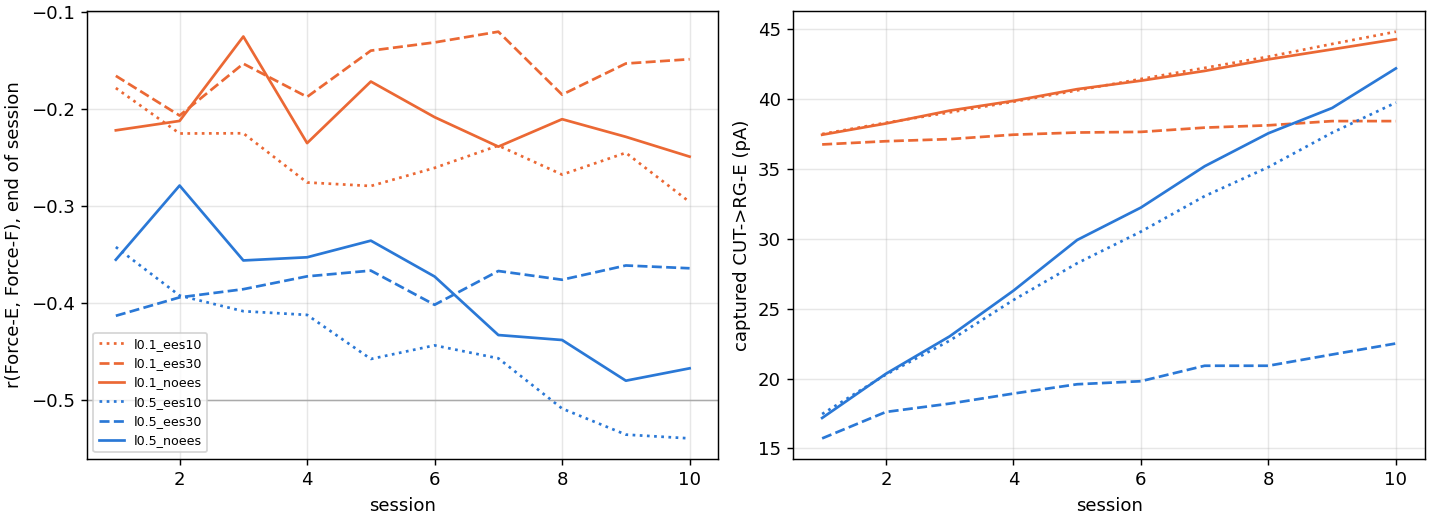
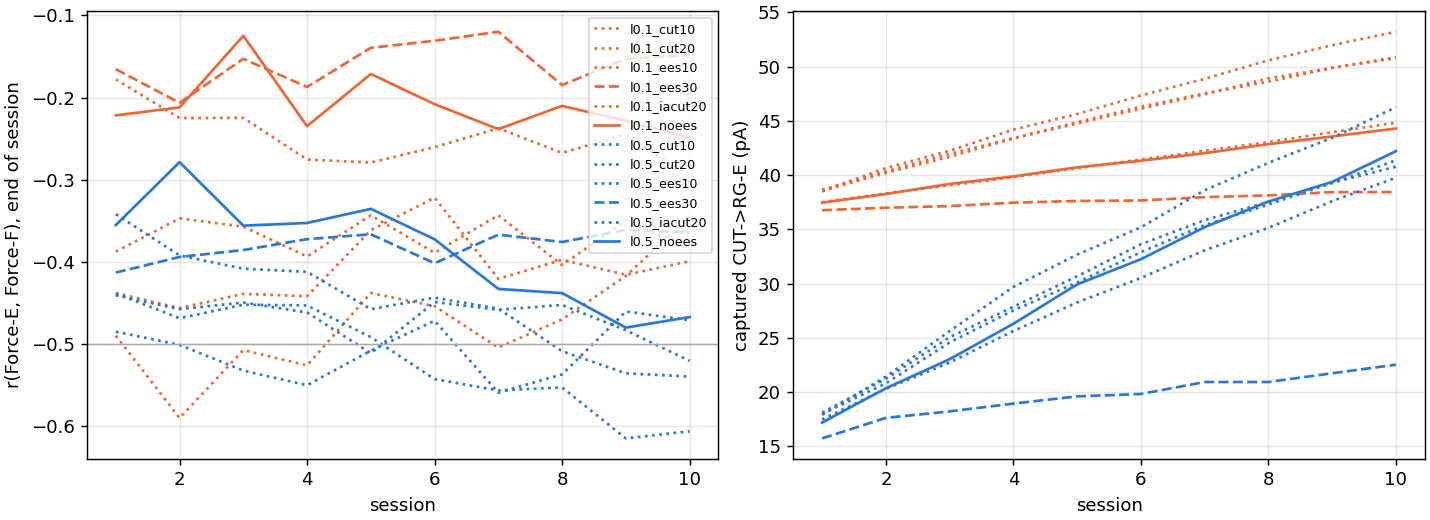
P7b: EES tuning - cutaneous-like recruitment at 10 Hz is the effective setting
Ia/Ib pulses do nothing useful; 30-40 Hz lowers extensor force. 10 Hz CUT-like: BWS 50 chain reaches
r(E,F) -0.5 at session 6, BWS 90 CUT weight grows ~2x faster. Extensor force 8-9 vs 10.7 (caveat).

diff --git a/scripts/p7_ees_tune.py b/scripts/p7_ees_tune.py
@@ -1,0 +1,49 @@
+#!/usr/bin/env python3
+"""
+p7_ees_tune.py
+PLAN.md P7b: one row per single-session run of an EES tuning scan (injured start, 60 s): does the
+stimulation help the extensor and the training signal? Columns (last --last-ms of the run):
+  Ia/Ib/CUT  recruited fraction per pulse; hz   pulse rate (from the HDF5 attrs)
+  rEF        r(Force-E, Force-F), mean of the legs      FE   95th percentile of Force-E (a.u.)
+  act_e      mean extensor activation                   CUTb captured CUT->RG-E baseline at the end (pA)
+  dCUT       CUTb minus the session-start weight (pA)   the in-session gain: the learning signal
+  d_*        difference to the no-EES run of the same mode in the same scan (rows named noees*)
+Usage: python3 scripts/p7_ees_tune.py results/human_modes/p7/ees_tune/<stage>/*/bws50.h5
+"""
+import argparse, os
+import h5py
+import numpy as np
+
+ap = argparse.ArgumentParser()
+ap.add_argument("files", nargs="+")
+ap.add_argument("--last-ms", type=float, default=20000.0)
+a = ap.parse_args()
+
+
+def row(path):
+    with h5py.File(path, "r") as f:
+        at = dict(f.attrs)
+        t = f["times_ms"][()]
+        k = t > t[-1] - a.last_ms
+        r, fe, ae = [], [], []
+        for s in "LR":
+            e, fl = f[f"leg_{s}/force_e"][()][k], f[f"leg_{s}/force_f"][()][k]
+            r.append(np.corrcoef(e, fl)[0, 1])
+            fe.append(np.percentile(e, 95))
+            ae.append(f[f"leg_{s}/act_e"][()][k].mean())
+        cutb = np.mean([f[f"leg_{s}/full_weights/cut_to_rge/baseline"][()].mean() for s in "LR"])
+        w0 = np.mean([f[f"leg_{s}/full_weights/cut_to_rge/w"][()][0].mean() for s in "LR"])
+    return dict(name=os.path.basename(os.path.dirname(path)), mode=os.path.basename(path)[:-3],
+                hz=at.get("ees_hz", 0.0), ia=at.get("ees_amp", 0.0) if at.get("ees_hz", 0) else 0.0,
+                ib=at.get("ees_amp_ib", 0.0), cut=at.get("ees_amp_cut", 0.0),
+                rEF=float(np.nanmean(r)), FE=float(np.mean(fe)), act_e=float(np.mean(ae)), CUTb=float(cutb), dCUT=float(cutb - w0))
+
+
+rows = [row(p) for p in a.files]
+ref = {r["mode"]: r for r in rows if r["hz"] == 0}
+print(f"{'run':24s} {'mode':6s} {'hz':>4s} {'Ia':>4s} {'Ib':>4s} {'CUT':>4s} {'rEF':>6s} {'FE':>5s} {'act_e':>6s} {'CUTb':>6s} {'dCUT':>6s} | {'d_rEF':>6s} {'d_FE':>5s} {'d_dCUT':>6s}")
+for r in sorted(rows, key=lambda r: (r["mode"], r["hz"], r["name"])):
+    b = ref.get(r["mode"])
+    d = (r["rEF"] - b["rEF"], r["FE"] - b["FE"], r["dCUT"] - b["dCUT"]) if b else (np.nan,) * 3
+    print(f"{r['name']:24s} {r['mode']:6s} {r['hz']:4.0f} {r['ia']:4.2f} {r['ib']:4.2f} {r['cut']:4.2f} {r['rEF']:6.2f} {r['FE']:5.1f} {r['act_e']:6.2f} "
+          f"{r['CUTb']:6.1f} {r['dCUT']:6.1f} | {d[0]:6.2f} {d[1]:5.1f} {d[2]:6.1f}")

diff --git a/CLAUDE.md b/CLAUDE.md
@@ -2102,7 +2102,7 @@ Cross-leg: L↔R commissural inhibition on RG-F (strong) and RG-E (weak).
 | `MOD_INIT_WEIGHTS` | **2026-09-28 (PLAN.md P5, groundwork for P6 sessions).** `--init-weights-from H5`: every plastic pathway starts from the end-of-run weights (last `full_weights` snapshot) of an earlier run instead of the naive lognormal init, i.e. a trained walker. The earlier run must be the same network (species, size, wiring rule, seed, threads); the saved (source, target) arrays are checked synapse by synapse and a mismatch is refused. Weights above this run's Wmax are clipped (count logged). Consolidation baselines start at the loaded weights. `config/modes/human.yaml` `init_from: <mode>` (BWS 50/90% from comfortable); `run_human_modes.sh` passes `$OUTDIR/<mode>.h5` unless `TRAINED=0`. **Injured start (round 12, 2026-09-29):** `--init-weights-scale s` multiplies the loaded weights (pathways weakened after SCI; mode key `init_scale`). From the full trained weights the gated extensor is saturated from the first step and nothing changes over the run; near the gate threshold training rebuilds the weights visibly. Human: BWS 50% ×0.25, BWS 90% ×0.65 (the gate needs a larger CUT weight at 10 Hz CUT). Attrs `init_weights_from`, `init_weights_json`, `init_weights_scale` (absent = naive). |
 | `MOD_SESSIONS` | **2026-09-29 (PLAN.md P6).** Session chains. Each `--consolidate` run saves every plastic synapse's final captured baseline (`full_weights/<key>/baseline`) and each leg's final PRP pool (`consolidation` attrs `<key>_prp_pool_final`). `--init-weights-from H5 --init-weights-state baseline` starts the next session from those baselines and pools: the uncaptured tag has decayed during the rest. `--init-weights-state weight` (default) loads the final live weights, as in P5. Attr `init_weights_state`. **Human species default since P6:** force trigger + consolidation at the comfortable P5 timing (`cli_defaults`); timer runs pass `--cut-trigger timer --no-consolidate --no-muscle-fatigue` (`--paced-gait`/`--muscle-fatigue` are switchable now; rat defaults unchanged). |
 | `MOD_SPINAL_INDUCTION` | **2026-10-02 (PLAN.md P6), human default.** `--plasticity-rule {stdp,spinal}` (rat `stdp`, byte-identical; human `spinal`). The human model has **no STDP**: its plastic pathways (CUT→RG-E, Ia→RG-E/F, BS→RG when not frozen) are static synapses in NEST whose weights Python sets every chunk with a spinal E-LTP induction rule (spec §1.1): Δw = η · Wmax · Δt · x · y(y − θ)/θ, x = presynaptic, y = postsynaptic per-neuron rate over the chunk (/100 Hz; the 50 ms chunk ~ the NMDA integration window), soft bounds (LTP × (1 − w/Wmax), LTD × w/Wmax). Weak postsynaptic activity depresses and strong activity potentiates (calcium-control / NMDA coincidence); θ slides per neuron toward ⟨y²⟩/y0 with τ 5 s (BCM homeostatic metaplasticity), so learning settles without a timing rule. y0 per population (`--spinal-post-target-e/f` 3.8 / 0.9) is calibrated so a naive comfortable walk trains to the old trained state (CUT→RG-E ~57 pA, stance RG-E ~650 Hz, r(E,F) −0.74). `--spinal-eta` 0.003/s (session-chain speed; healthy sources use 0.05 to converge in 120 s), `--spinal-theta-tau-ms` 5000. The induced change is the tag; `MOD_CONSOLIDATE` captures it (the tag decay is applied in the same step, on a Python weight shadow `w_sh`, one NEST write per chunk). `--stdp-lambda` is ignored. Attrs `plasticity_rule`, `spinal_induction_json` (absent = stdp). |
-| `MOD_EES` | **2026-10-05 (PLAN.md P7, first step, debug-small only).** `--ees-hz` (0 = off, no NEST objects, byte-identical; `./regress.sh` ALL PASS) and `--ees-amp` (0–1): a regular tonic pulse train (one `spike_generator` per leg, same pulse times in both legs) onto the Ia-E and Ia-F parrot populations, not gait-phase gated. Each pulse makes a fixed random fraction `amp` of each Ia population fire once (pairwise Bernoulli, delay 1 ms). The pulses act through the existing Ia pathways (Ia→InE/InF, Ia→RG), so they also feed the plasticity rule. Logs `ia_meas_e/f` (measured Ia unit rate incl. pulses; checked: +ees_hz·amp Hz) and attrs `ees_hz`, `ees_amp` (absent = off). `--ees-amp-ib` / `--ees-amp-cut` (default 0 = Ia only) add Ib (needs `--afferent-model split`, human default) and CUT-like recruitment from the same pulses. Built after the whole network (same random wiring and node ids with and without EES, so session chains can load an earlier run). Separate from the external Ia-E heel→toe ramp. **Training chains (PLAN.md P7): 30 Hz EES halves extensor force and stalls recovery; 10 Hz is neutral.** **Finding, Ia only (30 s, debug-small, naive weights, `--bs-drive-scale 0`, no loading, no external ramps):** EES alone never activates the extensor (act_e 0.00 at 0–50 Hz, amp 0.5/1.0) because the RG-E load gate (`MOD_RGE_LOAD_GATE`) needs ground contact; the flexor rises with frequency and goes tonic at 40–50 Hz (act_f 0.9–1.2, stride pinned at the 2 s cap). So the 7c pattern (5–15 Hz tonic extension, 25–50 Hz rhythmic E/F) is not reproduced yet: EES must also reach the gate (Ib / cutaneous-like recruitment, or an EES term at RG-E). **Finding with Ib + CUT recruitment** (same setup, Ia 0.5, Ib 0.5, CUT 0.2/0.5/1.0, 5–50 Hz): the extensor activates once CUT-like recruitment reaches the gate: act_e 0.01–0.2 at CUT 0.2, up to 0.76 at CUT 0.5 / 50 Hz, and 1.0–1.1 (tonic, Eact 0.91–0.99) at CUT 1.0 / 40–50 Hz, but then co-active with the flexor (act_f 1.15, r +0.5). At 5–25 Hz the extensor is weak (≤ 0.44) and E/F alternation is absent (|r| ≤ 0.12). The frequency dependence is therefore the reverse of the 7c target (tonic extension at 5–15 Hz, rhythmic E/F at 25–50 Hz): drive grows with pulse rate and nothing makes the output rhythmic. Untrained weights, 30 s; not yet tried with trained or injured-start weights. `scripts/p7_ees_summary.py` tabulates sweeps. |
+| `MOD_EES` | **2026-10-05 (PLAN.md P7, first step, debug-small only).** `--ees-hz` (0 = off, no NEST objects, byte-identical; `./regress.sh` ALL PASS) and `--ees-amp` (0–1): a regular tonic pulse train (one `spike_generator` per leg, same pulse times in both legs) onto the Ia-E and Ia-F parrot populations, not gait-phase gated. Each pulse makes a fixed random fraction `amp` of each Ia population fire once (pairwise Bernoulli, delay 1 ms). The pulses act through the existing Ia pathways (Ia→InE/InF, Ia→RG), so they also feed the plasticity rule. Logs `ia_meas_e/f` (measured Ia unit rate incl. pulses; checked: +ees_hz·amp Hz) and attrs `ees_hz`, `ees_amp` (absent = off). `--ees-amp-ib` / `--ees-amp-cut` (default 0 = Ia only) add Ib (needs `--afferent-model split`, human default) and CUT-like recruitment from the same pulses. Built after the whole network (same random wiring and node ids with and without EES, so session chains can load an earlier run). Separate from the external Ia-E heel→toe ramp. **Tuned (PLAN.md P7, debug-small): use CUT-like recruitment only (`--ees-amp 0 --ees-amp-cut 1.0`) at 10 Hz; the Ia/Ib pulses do nothing useful, and 30–40 Hz (any mix) lowers extensor force and stalls or locks the extensor. 10 Hz CUT-like: BWS 50% chain reaches r(E,F) −0.5 at session 6 (no EES: not in 10), BWS 90% CUT→RG-E grows about twice as fast; extensor force 8–9 vs 10.7.** **Finding, Ia only (30 s, debug-small, naive weights, `--bs-drive-scale 0`, no loading, no external ramps):** EES alone never activates the extensor (act_e 0.00 at 0–50 Hz, amp 0.5/1.0) because the RG-E load gate (`MOD_RGE_LOAD_GATE`) needs ground contact; the flexor rises with frequency and goes tonic at 40–50 Hz (act_f 0.9–1.2, stride pinned at the 2 s cap). So the 7c pattern (5–15 Hz tonic extension, 25–50 Hz rhythmic E/F) is not reproduced yet: EES must also reach the gate (Ib / cutaneous-like recruitment, or an EES term at RG-E). **Finding with Ib + CUT recruitment** (same setup, Ia 0.5, Ib 0.5, CUT 0.2/0.5/1.0, 5–50 Hz): the extensor activates once CUT-like recruitment reaches the gate: act_e 0.01–0.2 at CUT 0.2, up to 0.76 at CUT 0.5 / 50 Hz, and 1.0–1.1 (tonic, Eact 0.91–0.99) at CUT 1.0 / 40–50 Hz, but then co-active with the flexor (act_f 1.15, r +0.5). At 5–25 Hz the extensor is weak (≤ 0.44) and E/F alternation is absent (|r| ≤ 0.12). The frequency dependence is therefore the reverse of the 7c target (tonic extension at 5–15 Hz, rhythmic E/F at 25–50 Hz): drive grows with pulse rate and nothing makes the output rhythmic. Untrained weights, 30 s; not yet tried with trained or injured-start weights. `scripts/p7_ees_summary.py` tabulates sweeps. |
 | `MOD_EXT_STRENGTH` | **2026-10-06 (PLAN.md P7b).** `--extensor-strength s` (0–1, default 1 = unchanged, `./regress.sh` ALL PASS): gain on the extensor force target, a graded weakness (SCI patients cannot carry their weight; the support equipment takes it, modelled by the loading gains). Attr `extensor_strength` (absent = 1). Grid with loading in PLAN.md P7: s 1 → 0.1 lowers Force-E 10 → 1, lengthens stride 1.26 → 1.5–1.65 s and stance 0.57 → 0.63–0.66; r(E,F) is set mainly by the loading. `--init-weights-scale` (pathway weights) is all-or-nothing through the RG-E gate and is not a graded weakness. |
 | `MOD_BS_DRIVE_SCALE` | **2026-10-05 (PLAN.md P7b/c).** `--bs-drive-scale s` scales both descending inputs (tonic BS rate and the base drive): 1 = intact (default, unchanged), 0 < s < 1 incomplete SCI, 0 complete (no descending spikes). Attr `bs_drive_scale` (absent = 1). With the loaded comfortable walk and the external afferent ramps on, s = 0 still alternates (r(E,F) −0.29, stride 1.39 s): those gait-phase afferents carry the rhythm. |
 | `MOD_INTERLIMB_LOAD` | **2026-09-28 (PLAN.md P5).** `--liftoff-needs-contra-stance` (human default on, rat off): under `--cut-trigger force` a leg may end stance on force only while the other leg is in stance (interlimb load rule; Duysens & Pearson 1980 — to verify). Removes flight phases in walking; the stance cap still applies. Attr `liftoff_needs_contra_stance` (absent = off). |

diff --git a/PLAN.md b/PLAN.md
@@ -1636,7 +1636,21 @@ tonic EES.
 - Likely cause of the 30 Hz harm: the Ia/Ib pulses also drive the reciprocal-inhibition interneurons of the extensor. EES parameters (amplitude, which afferents, frequency) were not tuned. The chains carry the P6 injury (weakened pathway weights + loading); the extensor-strength weakness is a muscle gain and cannot be trained back, so it is not in these chains.
 - EES objects are now built after the whole network (`MOD_EES`): the random wiring and node ids are identical with and without EES, which the session chains' init-weights check needs.
 
-Not done: serotonergic supply parameter, Ia→RG plasticity check, EES tuning, a chain with the extensor-strength weakness added, more seeds, production-size runs.
+**EES tuning (debug-small, 2026-10-06, seed 12345; `scripts/p7_ees_tune.py`, single 60 s sessions from the BWS 50% / 90% injured starts, then chains).**
+- **Which afferents:** at 10 Hz and recruitment 0.5, no mix (Ia, Ib, CUT, and combinations) changes the in-session learning signal (CUT→RG-E gain within ±0.5 pA of no EES: 3.0 pA at BWS 50%, 0.7 pA at BWS 90%). The drive is too small next to the physiological CUT rate. Ia-only and Ib-only EES do nothing useful at any rate tried (up to 40 Hz); the Ia/Ib pulses also load the extensor's interneurons. **CUT-like (cutaneous) recruitment is the effective component.**
+- **Rate and amplitude (CUT-like only):** 10–20 Hz at recruitment 1.0 raises the gain to 3.7–3.8 pA (BWS 50%) and 1.7 pA (BWS 90%) and sharpens E/F alternation (BWS 90% r(E,F) −0.22 → −0.49 at 20 Hz); at 40 Hz the extensor becomes tonic and Force-E collapses (4 and 1 a.u.), the CUT weight stops growing.
+- **Chains, 10 sessions** (r(E,F) / captured CUT→RG-E at session 10; no EES: BWS 50% −0.47 / 42 pA, BWS 90% −0.25 / 44 pA):
+
+| CUT-like EES | BWS 50% | BWS 90% | Force-E p95 |
+|---|---|---|---|
+| 10 Hz, recruitment 1.0 | −0.61 / 46 pA (criterion at session 6) | −0.38 / 53 pA | 8.3–9.0 |
+| 20 Hz, recruitment 1.0 | −0.47 / 41 pA (criterion at session 2, then drifts back) | −0.35 / 51 pA | falls 8.8 → 6.7 |
+| 20 Hz, + Ia 0.5 | −0.52 / 41 pA | −0.40 / 51 pA | falls to 6.3–7.2 |
+
+  **10 Hz CUT-like EES is the best setting:** alternation improves at once (BWS 90%: −0.25 → −0.39 from session 1), the CUT weight grows about twice as fast at BWS 90% (+1.5 vs +0.7 pA per session) and the BWS 50% chain reaches criterion at session 6 instead of not within 10. 20 Hz gives an immediate effect that fades as extensor force falls over the sessions.
+- **Caveats:** the extensor force is lower with EES (8–9 vs 10.7 a.u., and falling at 20 Hz) while the extensor stays active more of the time: part of the alternation gain is less E/F co-activation, not a stronger extensor, which is the weakness that matters in the patients. One seed; the recruitment is a proxy for amplitude; 'CUT-like' stands for the mixed cutaneous and group II afferents that EES recruits. BWS 90% still does not reach criterion in 10 sessions.
+
+Not done: serotonergic supply parameter, Ia→RG plasticity check, a chain with the extensor-strength weakness added, more seeds, production-size runs.
 
 ### Phase 8 — Validation against human data (M, plus data access)
 
